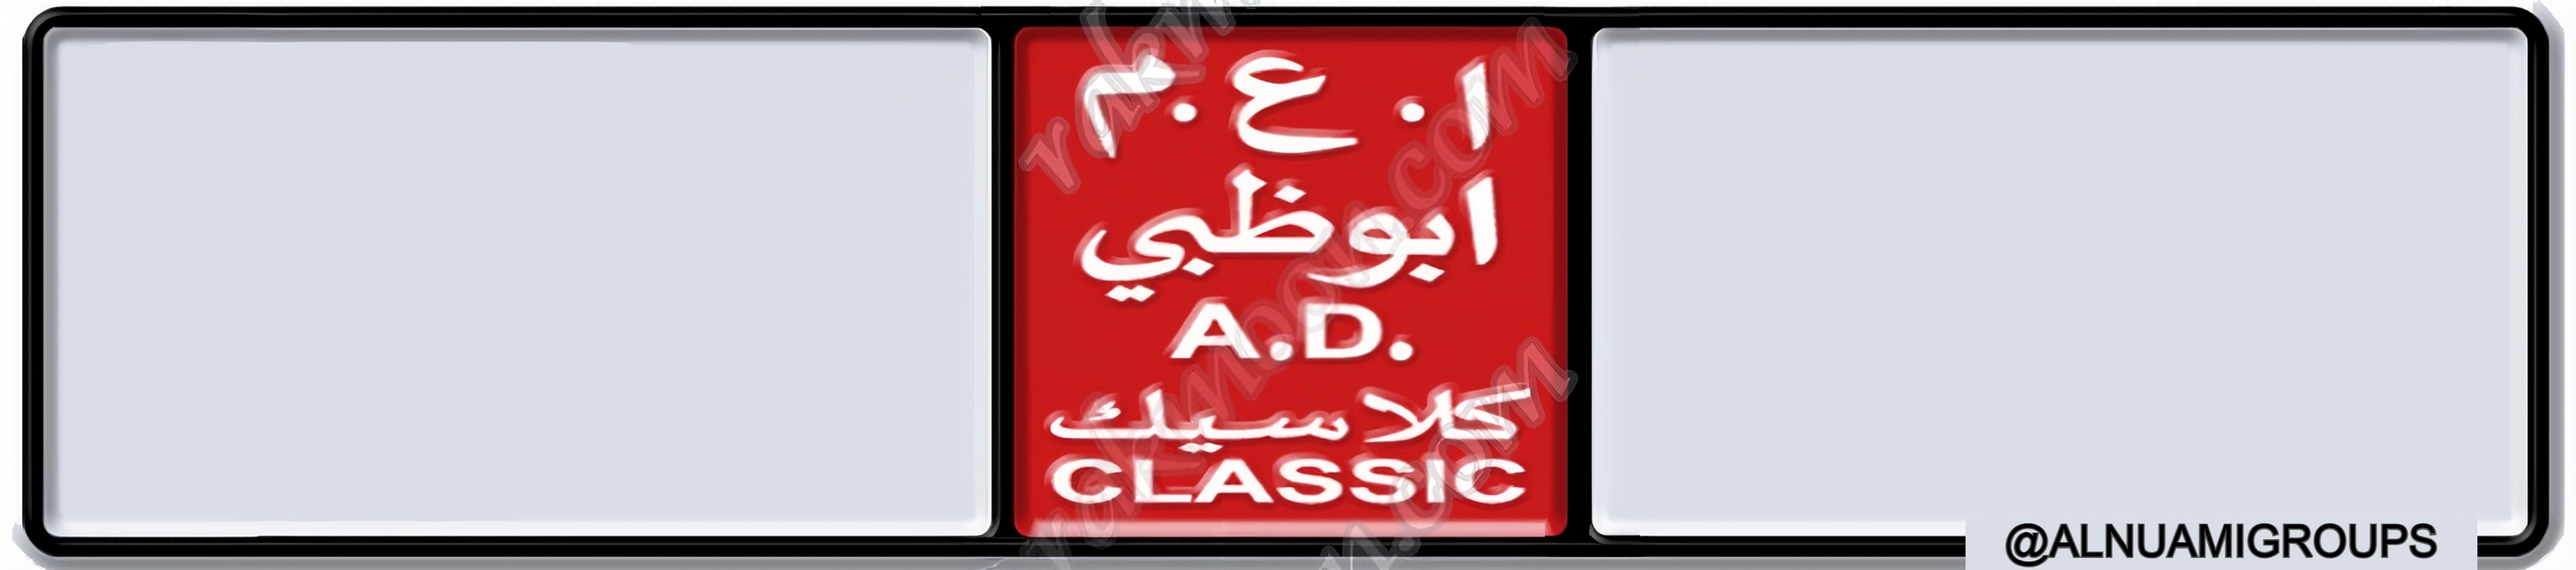
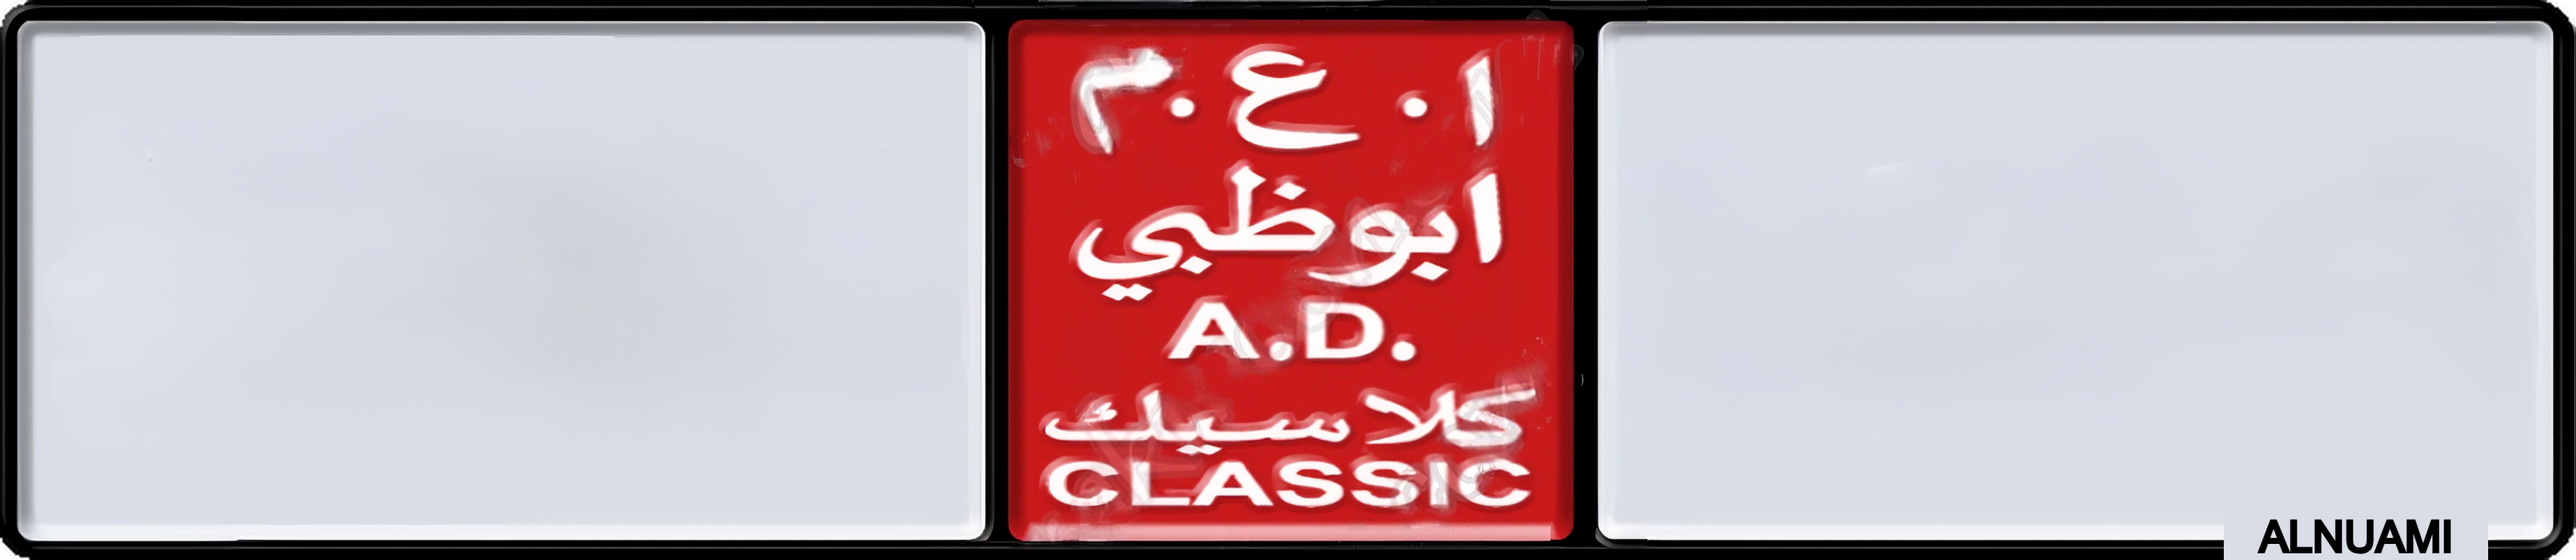
1

Changed region(s): [[0.0, 0.0, 1.0, 1.0]]

diff --git a/src/lib/plate-generator.ts b/src/lib/plate-generator.ts
@@ -36,12 +36,12 @@ interface EmirateConfig {
 const CONFIGS: Record<string, EmirateConfig> = {
   ajman: {
     hasCode: true,
-    fontHeightRatio: 0.18,
-    letterSpacingRatio: 0.015,
+    fontHeightRatio: 0.22,
+    letterSpacingRatio: 0.001,
     verticalCenter: true,
     components: [
-      { type: 'code', xRatio: 0.09, align: 'center', emboss: true, fontSizeRatio: 0.17 },
-      { type: 'number', xRatio: 0.43, align: 'center', emboss: true },
+      { type: 'code', xRatio: 0.10, yRatio: 0.77, align: 'center', emboss: true, fontSizeRatio: 0.19 },
+      { type: 'number', xRatio: 0.42, yRatio: 0.81, align: 'center', emboss: true },
     ],
   },
   abudhabi: {
@@ -52,8 +52,8 @@ const CONFIGS: Record<string, EmirateConfig> = {
     baselineRatio: 0.50,
     verticalCenter: true,
     components: [
-      { type: 'code', xRatio: 0.14, align: 'center', fontSizeRatio: 0.12, letterSpacingRatio: 0.0001, baselineOffsetRatio: -0.23, emboss: true },
-      { type: 'number', xRatio: 0.70, align: 'center', emboss: true, letterSpacingRatio: 0.0001, baselineOffsetRatio: -0.03 },
+      { type: 'code', xRatio: 0.09, yRatio: 0.46, align: 'center', fontSizeRatio: 0.12, letterSpacingRatio: 0.0001, baselineOffsetRatio: -0.23, emboss: true },
+      { type: 'number', xRatio: 0.70, yRatio: 0.78, align: 'center', fontSizeRatio: 0.24, emboss: true, letterSpacingRatio: 0.0001, baselineOffsetRatio: -0.03 },
     ],
   },
   dubai: {
@@ -87,8 +87,8 @@ const CONFIGS: Record<string, EmirateConfig> = {
     baselineRatio: 0.70,
     verticalCenter: false,
     components: [
-      { type: 'code', xRatio: 0.155, align: 'center', emboss: true },
-      { type: 'number', xRatio: 0.735, align: 'center', emboss: true },
+      { type: 'code', xRatio: 0.165, align: 'center', emboss: true },
+      { type: 'number', xRatio: 0.760, yRatio: 0.74, fontSizeRatio: 0.18, letterSpacingRatio: 0.0001, align: 'center', emboss: true },
     ],
   },
   rak: {

diff --git a/src/data/listings.ts b/src/data/listings.ts
@@ -46,31 +46,24 @@ export const LISTINGS: PlateListing[] = [
 
 export const PLATE_TEMPLATES: Record<string, string> = {
   abudhabi: '/abudhabi-plate.png',
-  abudhabi_bike: '/AD-B-plate.jpg',
-  abudhabi_bike_long: '/AD-BR-plate.jpg',
+  abudhabi_bike: '/AD-B-plate.png',
   abudhabi_classic: '/AD-C-Plate.png',
   dubai: '/dubai-plate.png',
-  dubai_bike: '/Dubai-B-plate.jpg',
-  dubai_bike_long: '/Dubai-BR-plate.jpg',
+  dubai_bike: '/Dubai-B-plate.png',
   dubai_classic: '/Dubai-C-Plate.png',
   ajman: '/ajman-plate.png',
-  ajman_bike: '/Ajman-B-plate.jpg',
-  ajman_bike_long: '/Ajman-BR-plate.jpg',
+  ajman_bike: '/Ajman-B-plate.png',
   ajman_classic: '/ajman-C-plate.png',
   rak: '/rak-plate.png',
-  rak_bike: '/RAK-B-plate.jpg',
-  rak_bike_long: '/RAK-BR-plate.jpg',
+  rak_bike: '/RAK-B-plate.png',
   rak_classic: '/RAK-C-Plate.png',
   fujairah: '/fujariah-plate.png',
-  fujairah_bike: '/FUJ-B-plate.jpg',
-  fujairah_bike_long: '/FUJ-BRR-plate.jpg',
+  fujairah_bike: '/FUJ-B-plate.png',
   sharjah: '/sharjah-plate.png',
-  sharjah_bike: '/SHJ-B-plate.jpg',
-  sharjah_bike_long: '/SHJ-BR-plate.jpg',
+  sharjah_bike: '/SHJ-B-plate.png',
   sharjah_classic: '/Shj-C-Plate.png',
   umm_al_quwain: '/umm-al-q-plate.png',
-  umm_al_quwain_bike: '/UAQ-B-plate.jpg',
-  umm_al_quwain_bike_long: '/UAQ-BR-plate.jpg',
+  umm_al_quwain_bike: '/UAQ-B-plate.png',
 };
 
 export interface EmirateSection {
